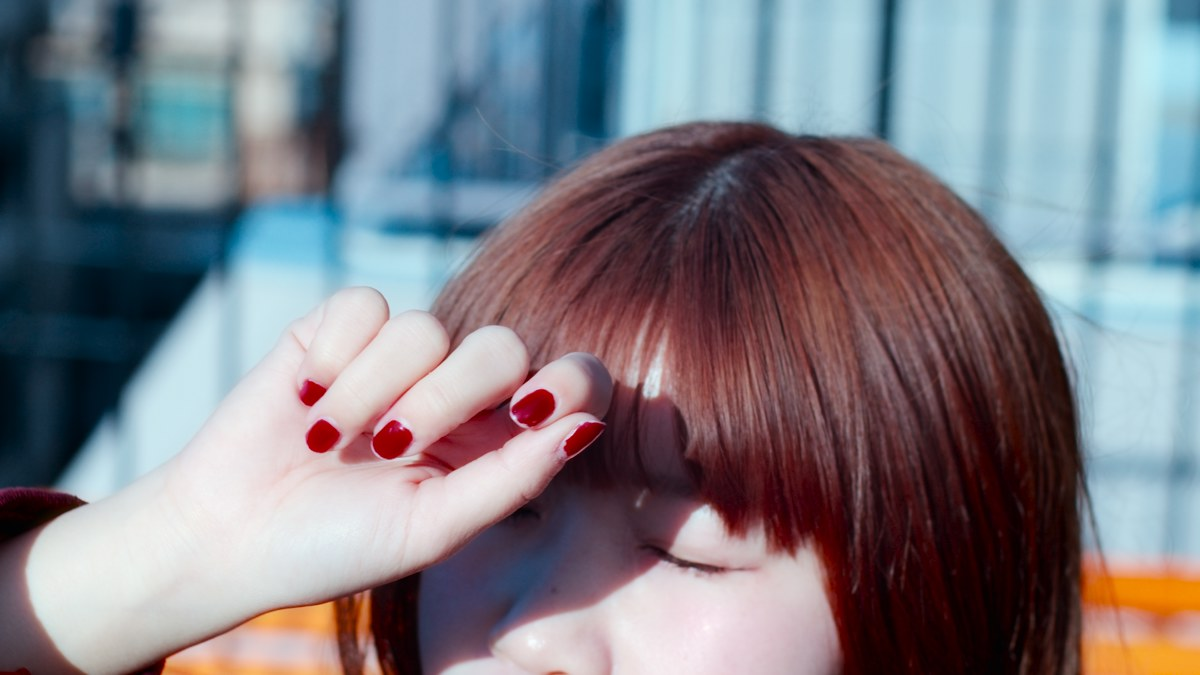
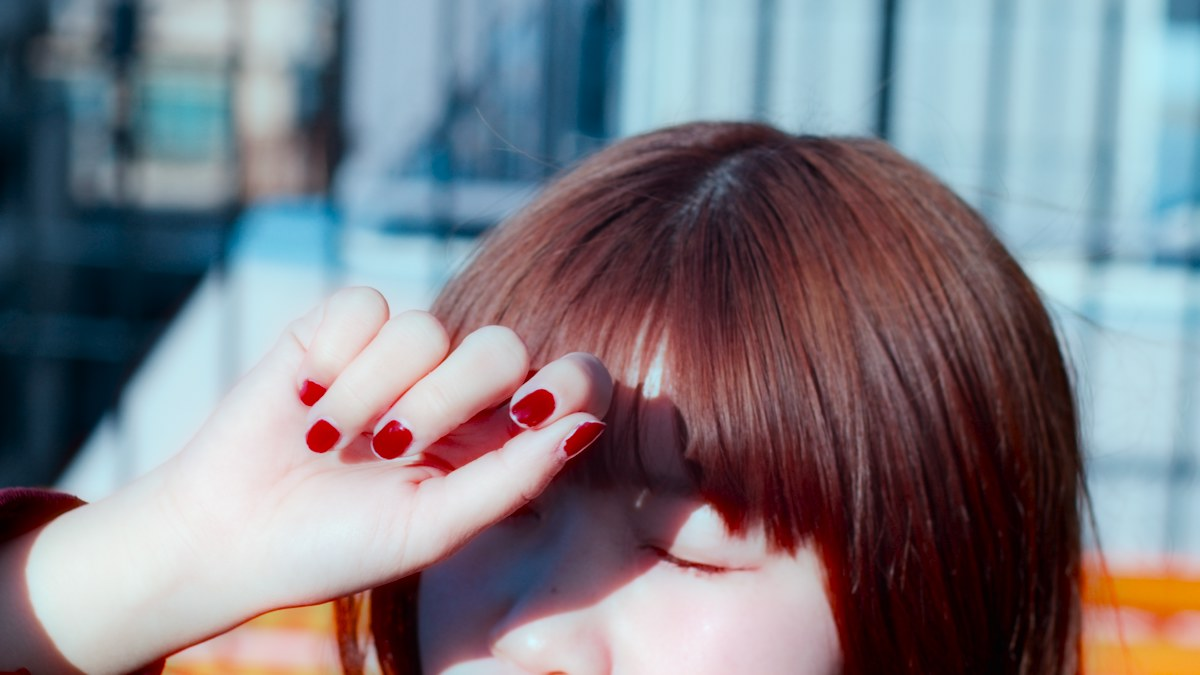
ハレーションを強く

diff --git a/jp/index.html b/jp/index.html
@@ -448,13 +448,13 @@ footer p{color:var(--lo); font-size:.74rem; line-height:2.1; max-width:52rem;
 <header class="hero">
   <!-- The picture first, and it moves. See the note in ../index.html: the shot
        runs untouched and the legibility is bought on the type's side. -->
-  <img class="hero-media hero-still" src="../img/hero.jpg?v=bb06e727"
-       srcset="../img/hero@960.jpg?v=bb06e727 960w, ../img/hero.jpg?v=bb06e727 1920w"
+  <img class="hero-media hero-still" src="../img/hero.jpg?v=3346f775"
+       srcset="../img/hero@960.jpg?v=3346f775 960w, ../img/hero.jpg?v=3346f775 1920w"
        sizes="100vw" alt="" width="1920" height="1080">
   <video class="hero-media hero-video" autoplay muted loop playsinline
-         preload="metadata" poster="../img/hero.jpg?v=bb06e727" width="1920" height="1080"
+         preload="metadata" poster="../img/hero.jpg?v=3346f775" width="1920" height="1080"
          aria-hidden="true" tabindex="-1">
-    <source src="../vid/hero.mp4?v=bb06e727" type="video/mp4">
+    <source src="../vid/hero.mp4?v=3346f775" type="video/mp4">
   </video>
   <div class="hero-veil"></div>
   <div class="wrap">
@@ -557,9 +557,9 @@ footer p{color:var(--lo); font-size:.74rem; line-height:2.1; max-width:52rem;
       <span class="cmp-tag cmp-l">Bypass</span>
       <span class="cmp-tag cmp-r">Film Classic</span>
     </div>
-    <div class="compare" data-ver="bb06e727" data-base="../img/" data-prefix="look-">
-      <img src="../img/source.jpg?v=bb06e727" alt="" width="1200" height="675">
-      <div class="cmp-after"><img src="../img/look-filmClassic.jpg?v=bb06e727" alt="" width="1200" height="675"></div>
+    <div class="compare" data-ver="3346f775" data-base="../img/" data-prefix="look-">
+      <img src="../img/source.jpg?v=3346f775" alt="" width="1200" height="675">
+      <div class="cmp-after"><img src="../img/look-filmClassic.jpg?v=3346f775" alt="" width="1200" height="675"></div>
       <div class="cmp-line"></div>
       <input class="cmp-range" type="range" min="0" max="100" value="50"
              aria-label="Bypass">
@@ -584,9 +584,9 @@ footer p{color:var(--lo); font-size:.74rem; line-height:2.1; max-width:52rem;
       <span class="cmp-tag cmp-l">すべてオフ</span>
       <span class="cmp-tag cmp-r">粒子</span>
     </div>
-    <div class="compare" data-ver="bb06e727" data-base="../img/" data-prefix="fx-">
-      <img src="../img/fx-base.jpg?v=bb06e727" alt="" width="1200" height="675">
-      <div class="cmp-after"><img src="../img/fx-grain.jpg?v=bb06e727" alt="" width="1200" height="675"></div>
+    <div class="compare" data-ver="3346f775" data-base="../img/" data-prefix="fx-">
+      <img src="../img/fx-base.jpg?v=3346f775" alt="" width="1200" height="675">
+      <div class="cmp-after"><img src="../img/fx-grain.jpg?v=3346f775" alt="" width="1200" height="675"></div>
       <div class="cmp-line"></div>
       <input class="cmp-range" type="range" min="0" max="100" value="50" aria-label="すべてオフ">
     </div>

diff --git a/index.html b/index.html
@@ -455,13 +455,13 @@ footer p{color:var(--lo); font-size:.74rem; line-height:2.1; max-width:52rem;
        in a still. The shot runs untouched: no dimming and no desaturation,
        because that would hide what it is here to show. The still underneath is
        the first frame, so nothing shifts when the video takes over. -->
-  <img class="hero-media hero-still" src="img/hero.jpg?v=bb06e727"
-       srcset="img/hero@960.jpg?v=bb06e727 960w, img/hero.jpg?v=bb06e727 1920w"
+  <img class="hero-media hero-still" src="img/hero.jpg?v=3346f775"
+       srcset="img/hero@960.jpg?v=3346f775 960w, img/hero.jpg?v=3346f775 1920w"
        sizes="100vw" alt="" width="1920" height="1080">
   <video class="hero-media hero-video" autoplay muted loop playsinline
-         preload="metadata" poster="img/hero.jpg?v=bb06e727" width="1920" height="1080"
+         preload="metadata" poster="img/hero.jpg?v=3346f775" width="1920" height="1080"
          aria-hidden="true" tabindex="-1">
-    <source src="vid/hero.mp4?v=bb06e727" type="video/mp4">
+    <source src="vid/hero.mp4?v=3346f775" type="video/mp4">
   </video>
   <div class="hero-veil"></div>
   <div class="wrap">
@@ -567,9 +567,9 @@ footer p{color:var(--lo); font-size:.74rem; line-height:2.1; max-width:52rem;
       <span class="cmp-tag cmp-l">Bypass</span>
       <span class="cmp-tag cmp-r">Film Classic</span>
     </div>
-    <div class="compare" data-ver="bb06e727" data-base="img/" data-prefix="look-">
-      <img src="img/source.jpg?v=bb06e727" alt="" width="1200" height="675">
-      <div class="cmp-after"><img src="img/look-filmClassic.jpg?v=bb06e727" alt="" width="1200" height="675"></div>
+    <div class="compare" data-ver="3346f775" data-base="img/" data-prefix="look-">
+      <img src="img/source.jpg?v=3346f775" alt="" width="1200" height="675">
+      <div class="cmp-after"><img src="img/look-filmClassic.jpg?v=3346f775" alt="" width="1200" height="675"></div>
       <div class="cmp-line"></div>
       <input class="cmp-range" type="range" min="0" max="100" value="50"
              aria-label="Bypass">
@@ -594,9 +594,9 @@ footer p{color:var(--lo); font-size:.74rem; line-height:2.1; max-width:52rem;
       <span class="cmp-tag cmp-l">All off</span>
       <span class="cmp-tag cmp-r">Grain</span>
     </div>
-    <div class="compare" data-ver="bb06e727" data-base="img/" data-prefix="fx-">
-      <img src="img/fx-base.jpg?v=bb06e727" alt="" width="1200" height="675">
-      <div class="cmp-after"><img src="img/fx-grain.jpg?v=bb06e727" alt="" width="1200" height="675"></div>
+    <div class="compare" data-ver="3346f775" data-base="img/" data-prefix="fx-">
+      <img src="img/fx-base.jpg?v=3346f775" alt="" width="1200" height="675">
+      <div class="cmp-after"><img src="img/fx-grain.jpg?v=3346f775" alt="" width="1200" height="675"></div>
       <div class="cmp-line"></div>
       <input class="cmp-range" type="range" min="0" max="100" value="50" aria-label="All off">
     </div>
